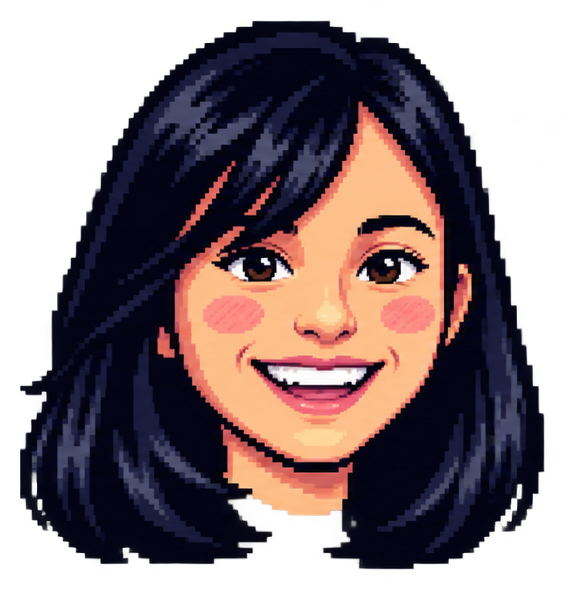
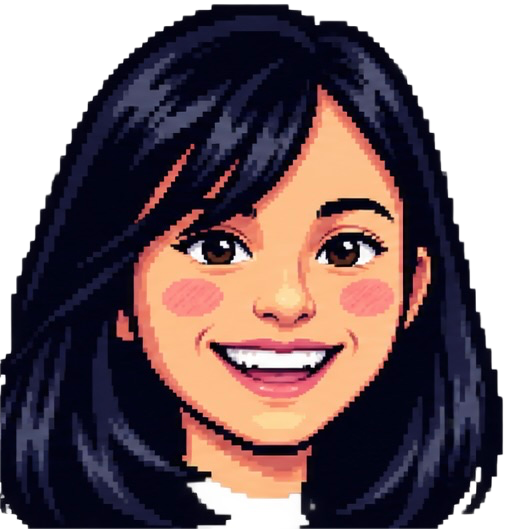
update UI

diff --git a/src/components/SettingsPage.jsx b/src/components/SettingsPage.jsx
@@ -13,31 +13,64 @@ export default function SettingsPage({ gasUrl, loading, onRefresh, onOpenUrlModa
           </div>
         </div>
 
-        <div className="grid gap-3 sm:grid-cols-3">
+        <div className="grid gap-3 sm:grid-cols-2 lg:grid-cols-3">
           <button
             onClick={onRefresh}
             disabled={loading}
-            className="pixel-button-primary flex min-h-28 flex-col items-center justify-center gap-2 px-4 py-4 text-center disabled:cursor-not-allowed disabled:opacity-60"
+            className="pixel-card relative flex min-h-28 flex-col overflow-hidden p-5 text-left transition-transform hover:-translate-y-0.5 disabled:cursor-not-allowed disabled:opacity-60"
           >
-            <RefreshCw className={`h-6 w-6 ${loading ? 'animate-spin' : ''}`} />
-            <span>{loading ? '重新整理中…' : '重新整理數據'}</span>
+            <div className="absolute top-0 left-0 w-2 h-full bg-[var(--color-secondary)]"></div>
+            <div className="flex items-start justify-between gap-3">
+              <span className="font-pixel text-base font-semibold text-ink-soft tracking-wider uppercase mb-1 md:text-lg">
+                {loading ? '重新整理中…' : '重新整理數據'}
+              </span>
+              <span className="inline-flex items-center justify-center p-2 rounded-pixel-sm bg-orange-50 border-2 border-primary text-primary">
+                <RefreshCw className={`w-4 h-4 ${loading ? 'animate-spin' : ''}`} />
+              </span>
+            </div>
+            <div className="font-pixel mt-3 text-sm text-muted">
+              同步最新記賬資料
+            </div>
           </button>
 
           <button
             onClick={onOpenUrlModal}
-            className="pixel-button-accent flex min-h-28 flex-col items-center justify-center gap-2 px-4 py-4 text-center"
+            className="pixel-card relative flex min-h-28 flex-col overflow-hidden p-5 text-left transition-transform hover:-translate-y-0.5"
           >
-            <Database className="h-6 w-6" />
-            <span>設定 GAS API URL</span>
-            <span className="max-w-full truncate text-xs font-normal opacity-75">{gasUrl || '尚未設定'}</span>
+            <div className="absolute top-0 left-0 w-2 h-full bg-[var(--color-secondary)]"></div>
+            <div className="flex items-start justify-between gap-3">
+              <span className="font-pixel text-base font-semibold text-ink-soft tracking-wider uppercase mb-1 md:text-lg">
+                設定 GAS API URL
+              </span>
+              <span className="inline-flex items-center justify-center p-2 rounded-pixel-sm bg-yellow-50 border-2 border-accent text-accent">
+                <Database className="w-4 h-4" />
+              </span>
+            </div>
+            <div className="font-pixel mt-3 text-sm text-muted">
+              {gasUrl ? (
+                <span className="block max-w-full truncate" title={gasUrl}>{gasUrl}</span>
+              ) : (
+                '尚未設定'
+              )}
+            </div>
           </button>
 
           <button
             onClick={onOpenCategoryModal}
-            className="flex min-h-28 flex-col items-center justify-center gap-2 rounded-pixel-sm border-2 border-ink bg-surface px-4 py-4 text-center font-bold text-ink shadow-pixel-sm transition hover:bg-surface-warm"
+            className="pixel-card relative flex min-h-28 flex-col overflow-hidden p-5 text-left transition-transform hover:-translate-y-0.5"
           >
-            <Settings className="h-6 w-6 text-accent-dark" />
-            <span>管理類別與顏色</span>
+            <div className="absolute top-0 left-0 w-2 h-full bg-[var(--color-secondary)]"></div>
+            <div className="flex items-start justify-between gap-3">
+              <span className="font-pixel text-base font-semibold text-ink-soft tracking-wider uppercase mb-1 md:text-lg">
+                管理類別與顏色
+              </span>
+              <span className="inline-flex items-center justify-center p-2 rounded-pixel-sm bg-teal-50 border-2 border-secondary text-secondary">
+                <Settings className="w-4 h-4" />
+              </span>
+            </div>
+            <div className="font-pixel mt-3 text-sm text-muted">
+              新增/編輯分類與快速標題
+            </div>
           </button>
         </div>
       </div>

diff --git a/src/App.jsx b/src/App.jsx
@@ -659,7 +659,7 @@ export default function App() {
           onClick={() => setActiveTab('settings')}
           className={`flex items-center space-x-2 px-6 py-2.5 rounded-full text-sm font-bold transition-all ${
             activeTab === 'settings'
-              ? 'bg-accent text-ink shadow-pixel-sm'
+              ? 'bg-[var(--color-secondary-dark)] text-white shadow-pixel-sm'
               : 'text-ink-soft hover:text-ink hover:bg-surface-warm'
           }`}
         >

diff --git a/tailwind.config.js b/tailwind.config.js
@@ -21,7 +21,12 @@ export default {
         primary: "#F28C77",
         "primary-dark": "#D96F61",
 
+        secondary: "#6FB7B2",
+        "secondary-dark": "#4E9692",
+
         accent: "#FAD02C",
+        "accent-dark": "#D9AE16",
+
         ink: "#2A2356",
         "ink-soft": "#554F70",
 

diff --git a/src/index.css b/src/index.css
@@ -20,6 +20,8 @@
   /* Brand */
   --color-primary: #F28C77;
   --color-primary-dark: #D96F61;
+  --color-secondary: #6FB7B2;
+  --color-secondary-dark: #4E9692;
 
   --color-accent: #FAD02C;
   --color-accent-dark: #D9AE16;
